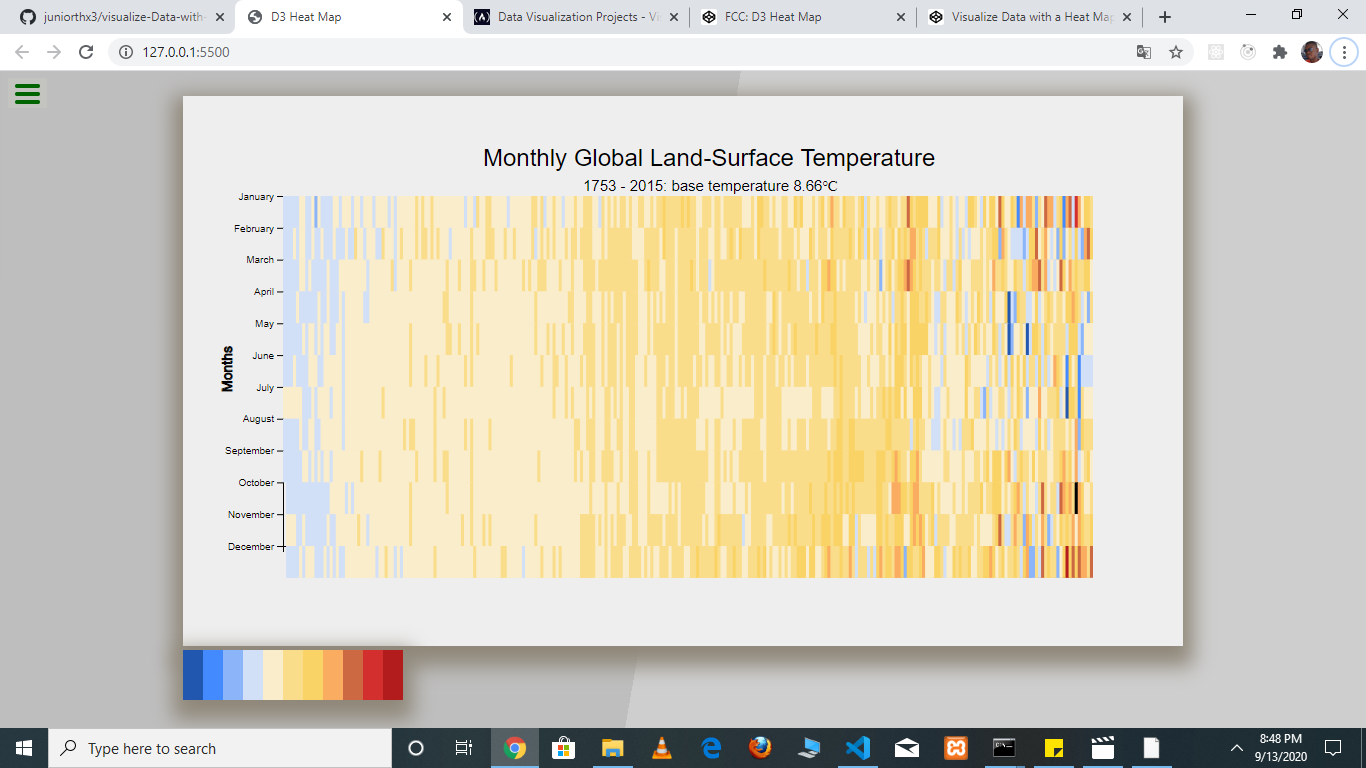
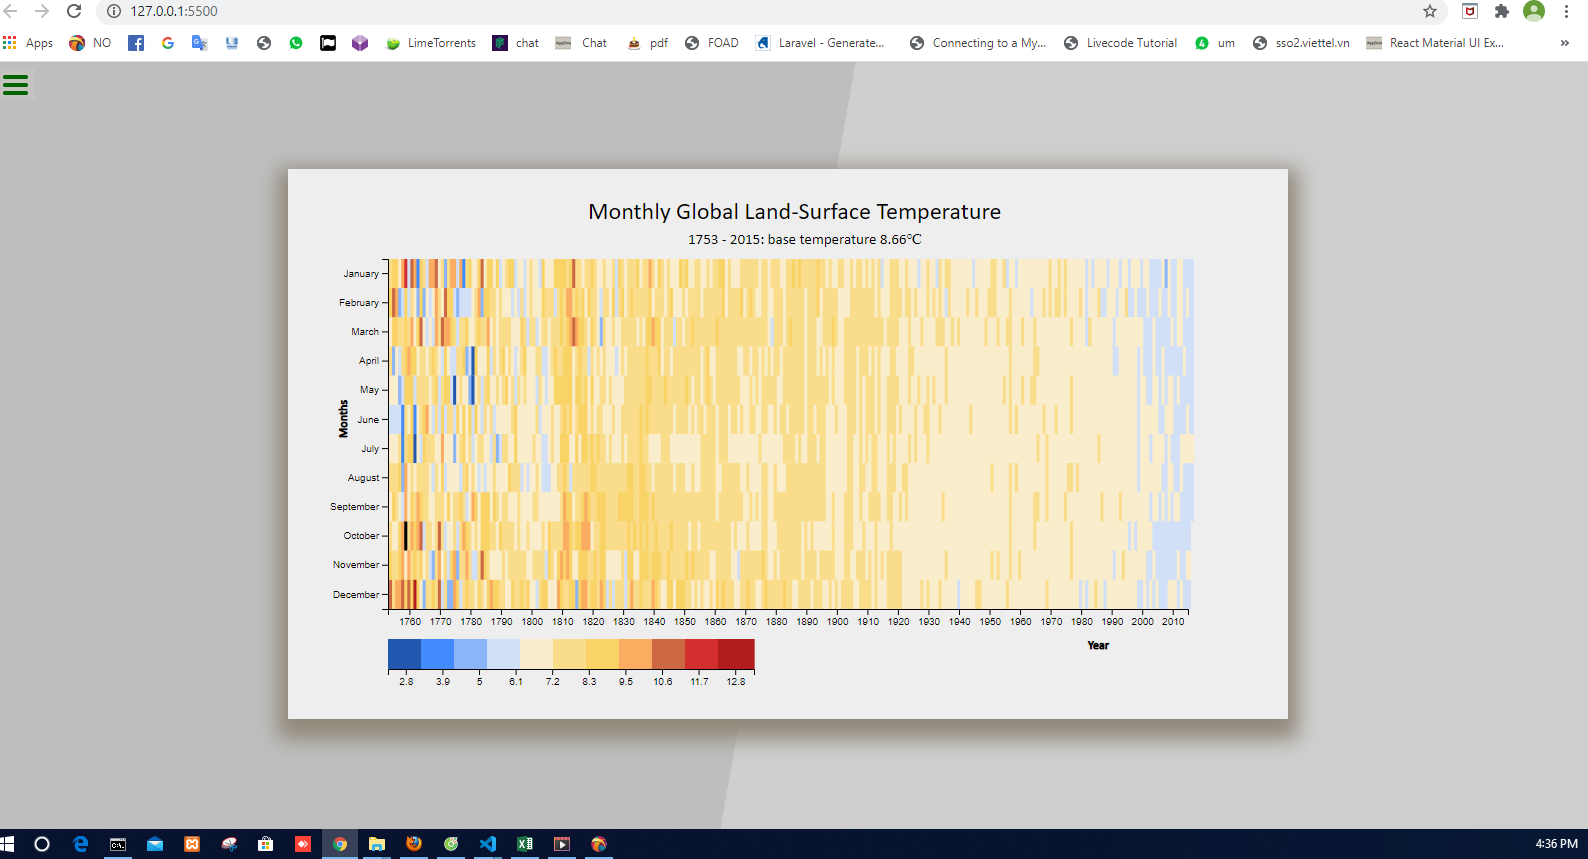
finish

diff --git a/index.js b/index.js
@@ -1,72 +1,84 @@
 const svg=d3.select("svg"), padding=200;
 const width=svg.attr("width")-padding, height=svg.attr("height")-padding;
-const g=svg.append("g").attr("transform","translate("+ 100 +","+ 100 +")");
-//const colors = ["#2257AF", "#448AFF", "#8CB5F9", "#D1DFF7", "#F9EDCB", "#FADD8B", "#FAD366", "#FAAC60", "#CC6942", "#D32F2F", "#B21C1C"];   
+const g=svg.append("g").attr("transform","translate("+ 100 +","+ 90 +")");  
 const colors = ["#2257AF", "#448AFF", "#8CB5F9", "#D1DFF7", "#F9EDCB", "#FADD8B", "#FAD366", "#FAAC60", "#CC6942", "#D32F2F", "#B21C1C"];
 const months= ["January", "February", "March", "April", "May", "June", "July", "August", "September", "October", "November", "December"];
+const xScale=d3.scaleBand().range([])
+
+//TITLE
+svg.append("text")
+   .attr("id","title")
+   .attr("transform", 'translate(100, 100)')
+   .attr("x", 200)
+   .attr("y", -50)
+   .attr("font-size", "24px")
+   .text("Monthly Global Land-Surface Temperature");
+
+//DESCRIPTION
+svg.append("text")
+   .attr("id","description")
+   .attr("transform", 'translate(100, 100)')
+   .attr("x", 300)
+   .attr("y", -25)
+   .attr("font-size", "15px")
+   .text("1753 - 2015: base temperature 8.66℃");
+
+
 fetch("https://raw.githubusercontent.com/freeCodeCamp/ProjectReferenceData/master/global-temperature.json")
    .then(response=>response.json())
    .then(response=>{
        const {baseTemperature, monthlyVariance}=response;
-       const temperature=monthlyVariance.map(d=>({...d,newTemperature: baseTemperature - d.variance}))
+       const temperature=monthlyVariance.map(d=>({...d, newTemperature: baseTemperature - d.variance}))
+       const tooltip=d3.select("body").append("div").attr("class","tooltip").attr("id", "tooltip").style("opacity", 0);
+       const legendScale=d3.scaleBand().domain([2.8, 3.9, 5.0, 6.1, 7.2, 8.3 ,9.5 ,10.6 ,11.7 ,12.8]).range([0, (height + 16)])
        
     //XSCALE
-    const xScale = d3.scaleTime()
+    const xScale = d3.scaleLinear()
                      .domain([d3.min(temperature, d=>d.year), d3.max(temperature, d=>d.year)])
-                     .range([width, 0]);
+                     .range([0, width]);
+                     
     g.append("g").attr("id","x-axis")
                  .attr("transform","translate(0, "+ height +")")
                  .call(d3.axisBottom(xScale).tickFormat(d3.format("d")).ticks(20));
 
     //YSCALE
-    const yScale=d3.scaleLinear()
-                   .domain([0, 11])
+    const yScale=d3.scaleBand()
+                   .domain([0, 1, 2, 3, 4, 5, 6, 7, 8, 9, 10 ,11])
                    .range([0, height]);
-    g.append("g").attr("id","y-axis").call(d3.axisLeft(yScale)
-    .tickFormat(month=>{
+     g.append("g").attr("id","y-axis").call(d3.axisLeft(yScale)
+     .tickFormat(month=>{
         const date=new Date();
         date.setUTCMonth(month);
         return d3.timeFormat("%B")(date);
-    }).ticks(10));
-
+    }));
     //color SCALE 
     const colorScale=d3.scaleLinear()
                        .domain([d3.min(temperature, d=>d.newTemperature), d3.max(temperature, d=>d.newTemperature)])
                        .range([0, 11]);
 
-    //TITLE
-    svg.append("text")
-        .attr("id","title")
-        .attr("transform", 'translate(100, 100)')
-        .attr("x", 200)
-        .attr("y", -30)
-        .attr("font-size", "24px")
-        .text("Monthly Global Land-Surface Temperature");
-    
-     //DESCRIPTION
-     svg.append("text")
-     .attr("id","description")
-     .attr("transform", 'translate(100, 100)')
-     .attr("x", 300)
-     .attr("y", -5)
-     .attr("font-size", "15px")
-     .text("1753 - 2015: base temperature 8.66℃");
-    
     //MONTHS LABEL
     svg.append("text")
-        .attr("transform", "rotate(-90)")
-        .attr("x", -250)
-        .attr("y", 120)
-        .attr("dy", "-5.1em")
-        .attr("text-anchor", "end")
-        .attr("stroke", "black")
-        .style("font-size", "14px")
-        .text("Months");
+       .attr("transform", "rotate(-90)")
+       .attr("x", -250)
+       .attr("y", 120)
+       .attr("dy", "-5.1em")
+       .attr("text-anchor", "middle")
+       .attr("stroke", "black")
+       .style("font-size", "12px")
+       .text("Months");
 
-
-    const tooltip=d3.select("body").append("div").attr("class","tooltip").attr("id", "tooltip").style("opacity", 0);
-  
-    g.selectAll("rect")
+   //YEAR LABEL
+   svg.append("text")
+      .attr("id","title")
+      .attr("transform", 'translate(100, 550)')
+      .attr("x", 700)
+      .attr("y", -70)
+      .attr("stroke", "black")
+      .attr("font-size", "12px")
+      .text("Year"); 
+    
+   //DATA RECT
+    g.selectAll(".cell")
        .data(temperature)
        .enter()
        .append("rect")
@@ -74,35 +86,38 @@ fetch("https://raw.githubusercontent.com/freeCodeCamp/ProjectReferenceData/maste
        .attr("data-month", d=>d.month - 1)
        .attr("data-year", d=>d.year)
        .attr("data-temp", d=>d.newTemperature)
-       .attr("x", d=>xScale(d.year))
+       .attr("x", d=>xScale(d.year) + 1)
        .attr("y", d=>yScale(d.month - 1))
-       .attr("width", 10)
-       .attr("height", height / colors.length)
+       .attr("width", 5)
+       .attr("height",yScale.bandwidth())
        .attr("fill",d=>colors[Math.floor(colorScale(d.newTemperature))])
-            .on("mouseover", d => { 
+        .on("mouseover", d => { 
              tooltip.style("opacity", 0.9);
              tooltip.attr("data-year", d.year);
              tooltip.html(d.year + ", "+ months[d.month - 1] +"<br />"+ d.newTemperature + " ℃"+"<br />"+ d.variance)
             .style("left", d3.event.pageX + "px")
             .style("top", d3.event.pageY - 28 + "px");
             })   
-            .on("mouseout", d => {
+        .on("mouseout", d => {
              tooltip.style("opacity", 0);
-            });
+        });
+
+   //LEGEND
+     svg.append("g")
+        .attr("id","legend")
+        .attr("transform","translate(100, 470)")
+        .selectAll("rect")
+        .data(colors)
+        .enter()
+        .append("rect")
+        .attr("x", (d, i)=> i * 33)
+        .attr("y", 0)
+        .attr("width", 36.66)
+        .attr("height", 30)
+        .attr("fill", d=>d);
+        
+     svg.append("g").attr("transform","translate(100, 500)").call(d3.axisBottom(legendScale));
+       
      });
-     const legend=d3.select("body")
-                    .append("svg")
-                    .attr("width", 220)
-                    .attr("height", 50)
-                    .attr("id","legend")
-                    .selectAll("rect")
-                    .data(colors)
-                    .enter()
-                    .append("rect")
-                    .attr("x", (d, i)=> i * 20)
-                    .attr("y", 0)
-                    .attr("width", width / colors.length)
-                    .attr("height", 50)
-                    .attr("fill", d=>d)
-                     .text("heeh")
+                
      

diff --git a/style.css b/style.css
@@ -1,6 +1,6 @@
 body{
     background: linear-gradient(100deg,#bebebe 50%, #cecece 50%);
-    font-family: sans-serif;
+    font-family: calibri;
 }
 
 :root{
@@ -18,6 +18,7 @@ svg{
 .cell:hover{
     fill:white;
     opacity: 0.5;
+    border:2px solid black;
 }
 
 .tooltip {
@@ -34,3 +35,5 @@ svg{
     display: flex;
     justify-content: center;
   }
+
+ 
